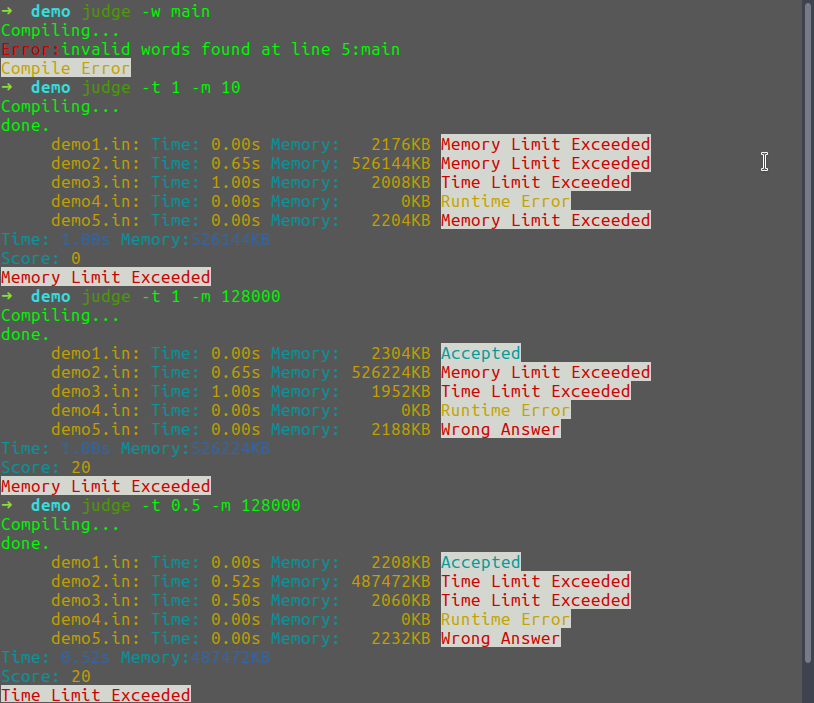
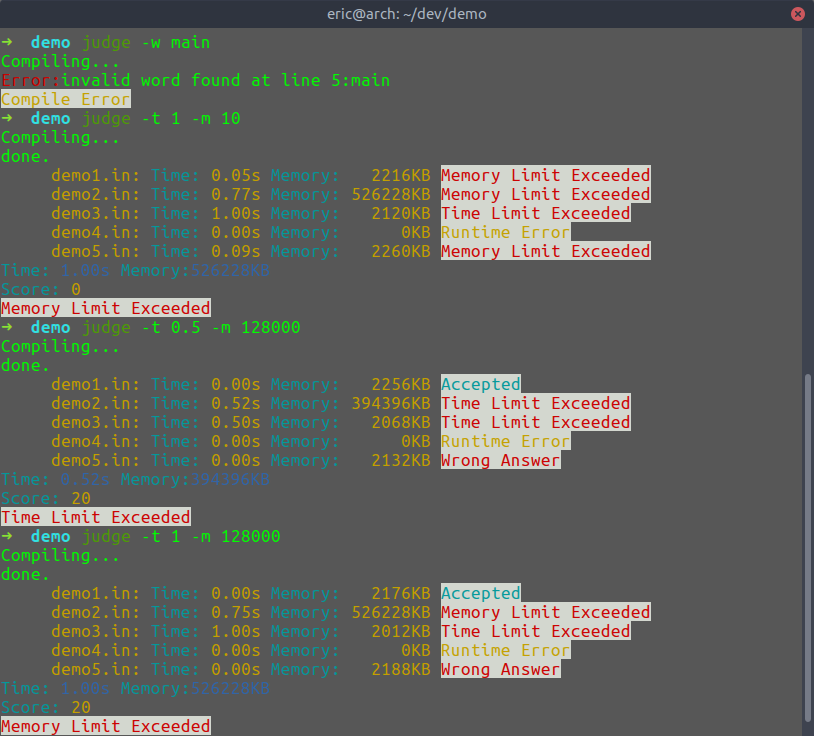
Commit

Changed region(s): [[0.0, 0.0, 1.0, 1.0], [0.9828, 0.926, 1.0, 0.9858]]

diff --git a/judge.cpp b/judge.cpp
@@ -167,7 +167,7 @@ bool SafetyCheck()
                         foreground(red);
                         printf("Error:");
                         ClearColor();
-                        printf("invalid words found at line %d:%s\n",line,Dict[k]);
+                        printf("invalid word found at line %d:%s\n",line,Dict[k]);
                         r=true;
                     }
     }
